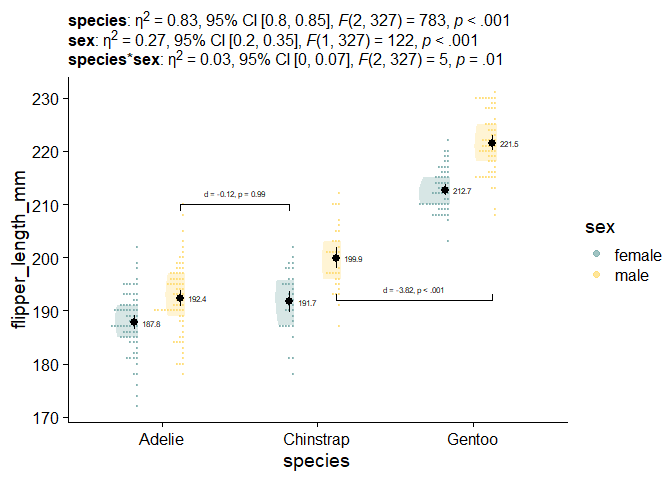
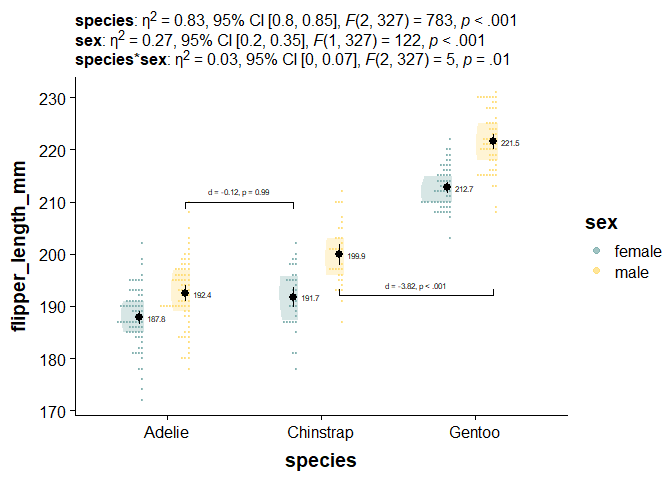
increase theme_basic spacing

diff --git a/README.md b/README.md
@@ -192,7 +192,7 @@ report_tidy_t(
 #> [1] "d = -0.82, p < .001"
 ```
 
-# Putting it Together With a Plot
+# Putting it Together With a Plot, with theme_basic()
 
 ``` r
 #Just for this plotting workflow
@@ -200,7 +200,7 @@ library(ggpp) # for position_dodge2nudge
 library(cowplot)
 library(ggdist)
 library(ggpubr) # significance brackets
-
+library(ggtext)
 
 # Define color palette
 nova_palette <- c("#78AAA9", "#FFDB6E")
@@ -281,9 +281,8 @@ ggdist::scale_fill_ramp_discrete(range = c(0.0, 1),
                            ci = FALSE)) # content of your bracket text
   ) +
 
-  cowplot::theme_half_open() +
-  guides(fill_ramp = "none")  +
-  theme(plot.subtitle = ggtext::element_markdown())
+  theme_basic() +
+  guides(fill_ramp = "none")
 ```
 
 <img src="man/figures/README-unnamed-chunk-10-1.png" width="100%" />
